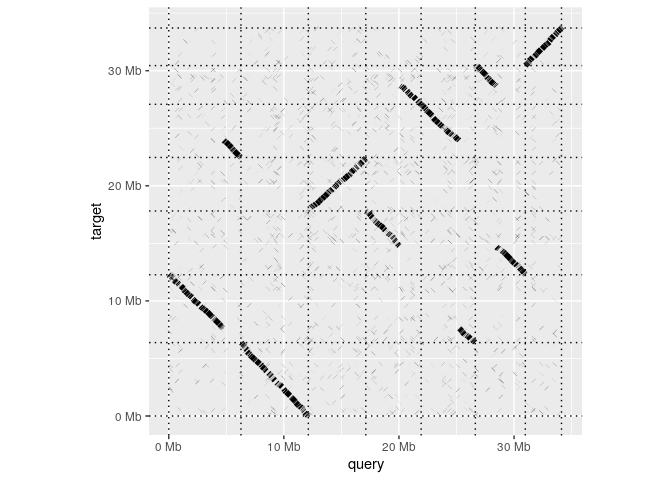
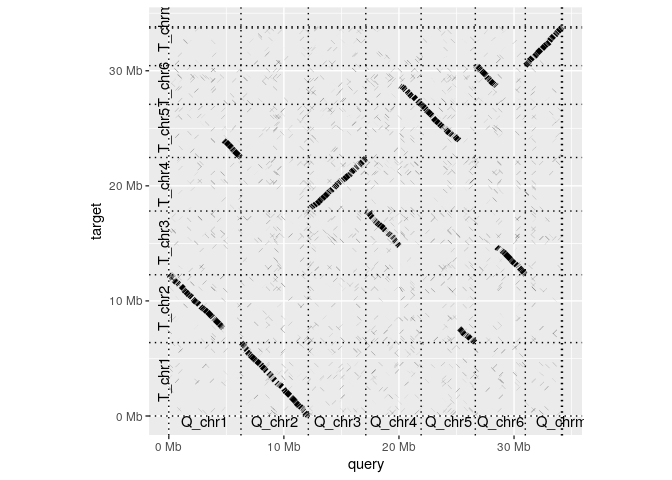
Update README
(avoid possible ggplot2 guff with library, label sequences in dotplot)

diff --git a/README.md b/README.md
@@ -14,23 +14,10 @@ This package is in the process of being turned from reseach code into a nice usa
 Nevertheless, you can check out the code and run it for youself. Here's how to make a basic whole-genome dotplot from a PAF file:
 
 ``` r
-library(pafr)
-#> Loading required package: dplyr
-#> 
-#> Attaching package: 'dplyr'
-#> The following objects are masked from 'package:stats':
-#> 
-#>     filter, lag
-#> The following object is masked from 'package:MoreUtils':
-#> 
-#>     last
-#> The following objects are masked from 'package:base':
-#> 
-#>     intersect, setdiff, setequal, union
-#> Loading required package: tibble
+library(pafr, quietly=TRUE)
 test_alignment <- system.file("extdata", "fungi.paf", package="pafr")
 ali <- read_paf(test_alignment)
-dotplot(ali)
+dotplot(ali, label_seqs=TRUE)
 ```
 
 ![](man/figures/README-dotplot-1.png)
@@ -41,11 +28,11 @@ Installation
 If you want to play with the code already here, you can install this package using devtools
 
 ``` r
-#install.packages(pafr)
+#install.packages(devtools)
 devtools::install_github("dwinter/pafr")
 ```
 
 Bugs/Issues
 -----------
 
-Please use the issue tracker on this repo to let us know about any bugs or issues that arise as you use this package
+Please use the issue tracker on this repo to let us know about any bugs or issues that arise as you use this package.
